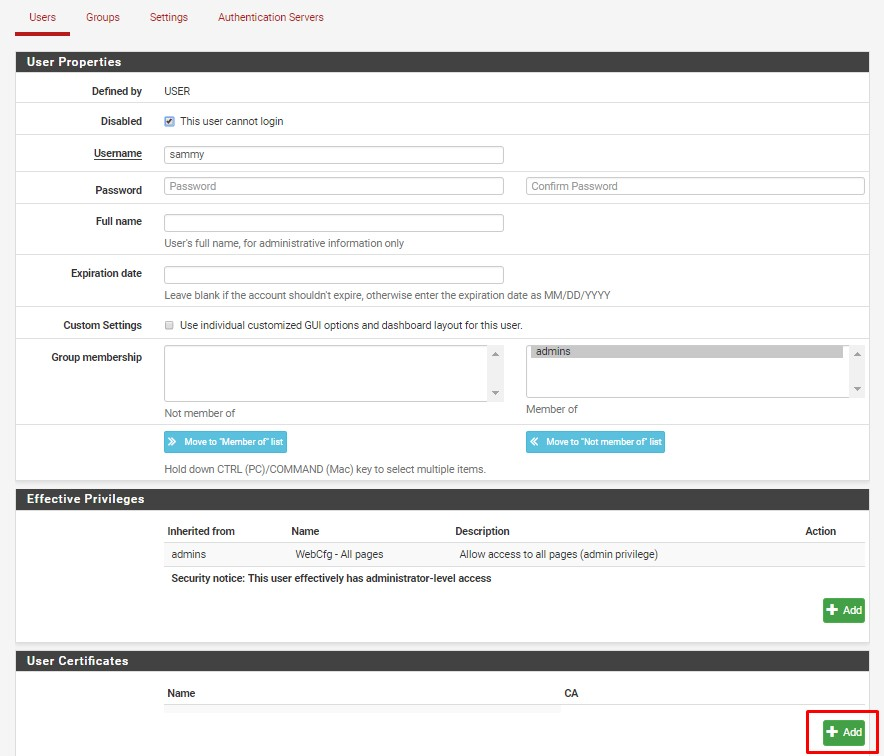
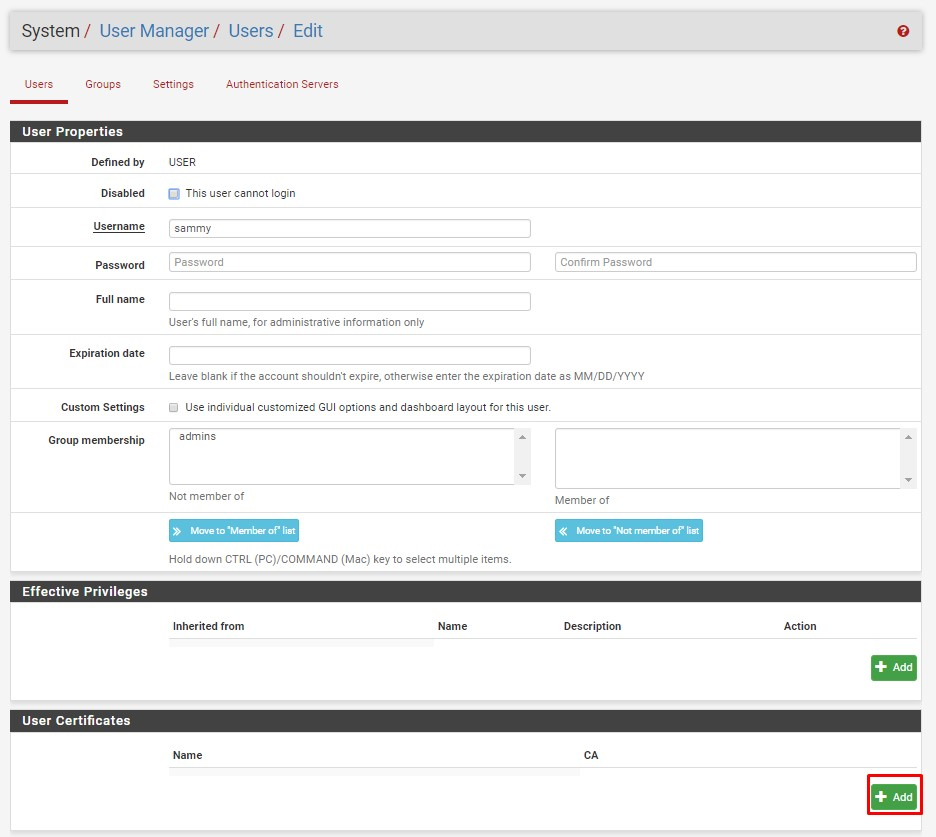
sua tai lieu

Changed region(s): [[0.0, 0.0, 1.0, 0.791], [0.0, 0.7606, 1.0, 1.0]]

diff --git a/docs/pfSense-OpenVPN-TUNmode.md b/docs/pfSense-OpenVPN-TUNmode.md
@@ -41,7 +41,7 @@ Bài lab thành công khi máy client nhận được IP của tunnel và có th
 - Tại tab System/UserManager, tạo user được VPN
   ![img](../images/openvpn_tun/2.jpg)
 
-- Khai báo Username, password của User, disable quyền login của user vào pfsense, loại bỏ user khỏi group admin. Sau đó "Save"
+- Khai báo Username, password của User. Sau đó "Save"
   ![img](../images/openvpn_tun/2_1.jpg)
 
 - Sau khi user được tạo, click vào nút "Edit user"

diff --git a/docs/pfSense-OpenVPN-TAPmode.md b/docs/pfSense-OpenVPN-TAPmode.md
@@ -41,7 +41,7 @@ Bài lab thành công khi máy client nhận được IP của mạng LAN2 và c
 - Tại tab System/UserManager, tạo user được VPN
   ![img](../images/ovpn_3.jpg)
 
-- Khai báo Username, password của User, disable quyền login của user vào pfsense, loại bỏ user khỏi group admin. Sau đó "Save"
+- Khai báo Username, password của User. Sau đó "Save"
   ![img](../images/ovpn_3_1.jpg)
 
 - Sau khi user được tạo, click vào nút "Edit user"
